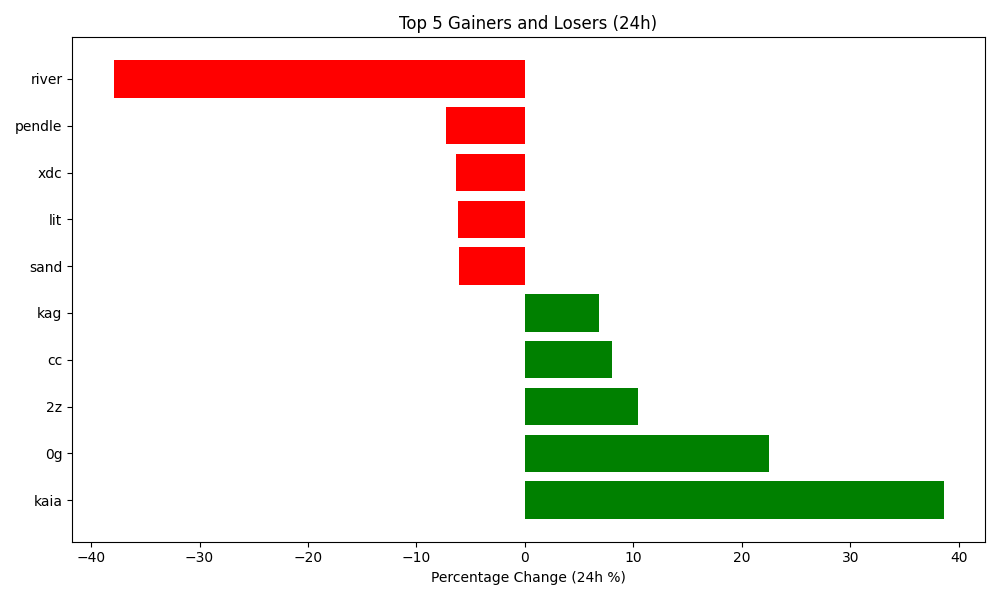
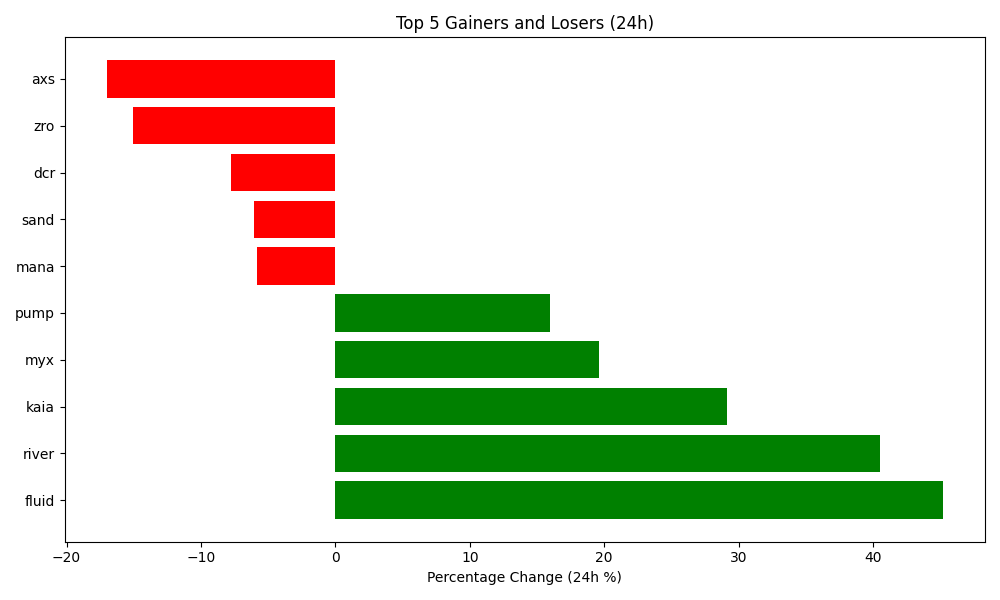
Auto-update crypto data and plot

diff --git a/README.md b/README.md
@@ -4,7 +4,7 @@ Author: Hitesh Agrawal
 This repository automatically tracks the top 5 gaining, top 5 losing, and top 5 highest volume cryptocurrencies in the last 24 hours using the CoinGecko API, Python, Matplotlib, and GitHub Actions updates the below content everyday at midnight.
 
 <!-- START_DYNAMIC_CONTENT -->
-Last updated: 2026-01-24 01:08 UTC
+Last updated: 2026-01-25 01:18 UTC
 
 ![Crypto Movers Plot](crypto_movers_plot.png)
 
@@ -12,33 +12,33 @@ Last updated: 2026-01-24 01:08 UTC
 
 | Rank | Coin | Price Change (24h %) | Volume (USD) | Current Price (USD) |
 | :--: | :--: | :------------------: | :----------: | :-----------------: |
-| 1 | kaia | 38.60% | $94,916,694 | $0.0729 |
-| 2 | 0g | 22.55% | $279,374,191 | $1.0890 |
-| 3 | 2z | 10.44% | $55,331,379 | $0.1390 |
-| 4 | cc | 8.03% | $20,158,134 | $0.1560 |
-| 5 | kag | 6.85% | $2,394,591 | $103.9300 |
+| 1 | fluid | 45.21% | $79,806,753 | $3.5900 |
+| 2 | river | 40.50% | $85,288,207 | $58.9300 |
+| 3 | kaia | 29.11% | $166,529,599 | $0.0937 |
+| 4 | myx | 19.59% | $28,496,310 | $6.9000 |
+| 5 | pump | 15.97% | $185,470,362 | $0.0028 |
 
 
 **👇 Top 5 Losers (24h)**
 
 | Rank | Coin | Price Change (24h %) | Volume (USD) | Current Price (USD) |
 | :--: | :--: | :------------------: | :----------: | :-----------------: |
-| 1 | river | -37.92% | $121,273,552 | $41.2000 |
-| 2 | pendle | -7.25% | $63,073,033 | $2.0100 |
-| 3 | xdc | -6.39% | $33,235,239 | $0.0412 |
-| 4 | lit | -6.14% | $123,303,691 | $1.6700 |
-| 5 | sand | -6.09% | $202,420,094 | $0.1561 |
+| 1 | axs | -17.02% | $465,410,839 | $2.4300 |
+| 2 | zro | -15.09% | $86,698,729 | $1.9400 |
+| 3 | dcr | -7.80% | $2,985,515 | $17.7200 |
+| 4 | sand | -6.04% | $67,407,213 | $0.1461 |
+| 5 | mana | -5.81% | $24,535,704 | $0.1536 |
 
 
 **💎 Top 5 by Trade Volume (24h)**
 
 | Rank | Coin | Price Change (24h %) | Volume (USD) | Current Price (USD) |
 | :--: | :--: | :------------------: | :----------: | :-----------------: |
-| 1 | usdt | -0.03% | $79,186,299,642 | $0.9987 |
-| 2 | btc | -0.20% | $42,849,349,771 | $89,347.0000 |
-| 3 | eth | -0.17% | $22,662,128,471 | $2,948.3300 |
-| 4 | usdc | -0.01% | $7,624,348,918 | $0.9996 |
-| 5 | usd1 | -0.03% | $6,771,821,661 | $1.0000 |
+| 1 | usdt | -0.02% | $33,457,953,779 | $0.9986 |
+| 2 | btc | -0.36% | $16,078,857,436 | $89,119.0000 |
+| 3 | eth | 0.02% | $8,984,603,811 | $2,952.8200 |
+| 4 | usd1 | -0.04% | $2,077,187,934 | $0.9998 |
+| 5 | usdc | 0.01% | $2,006,083,293 | $0.9997 |
 
 
 <!-- END_DYNAMIC_CONTENT -->
